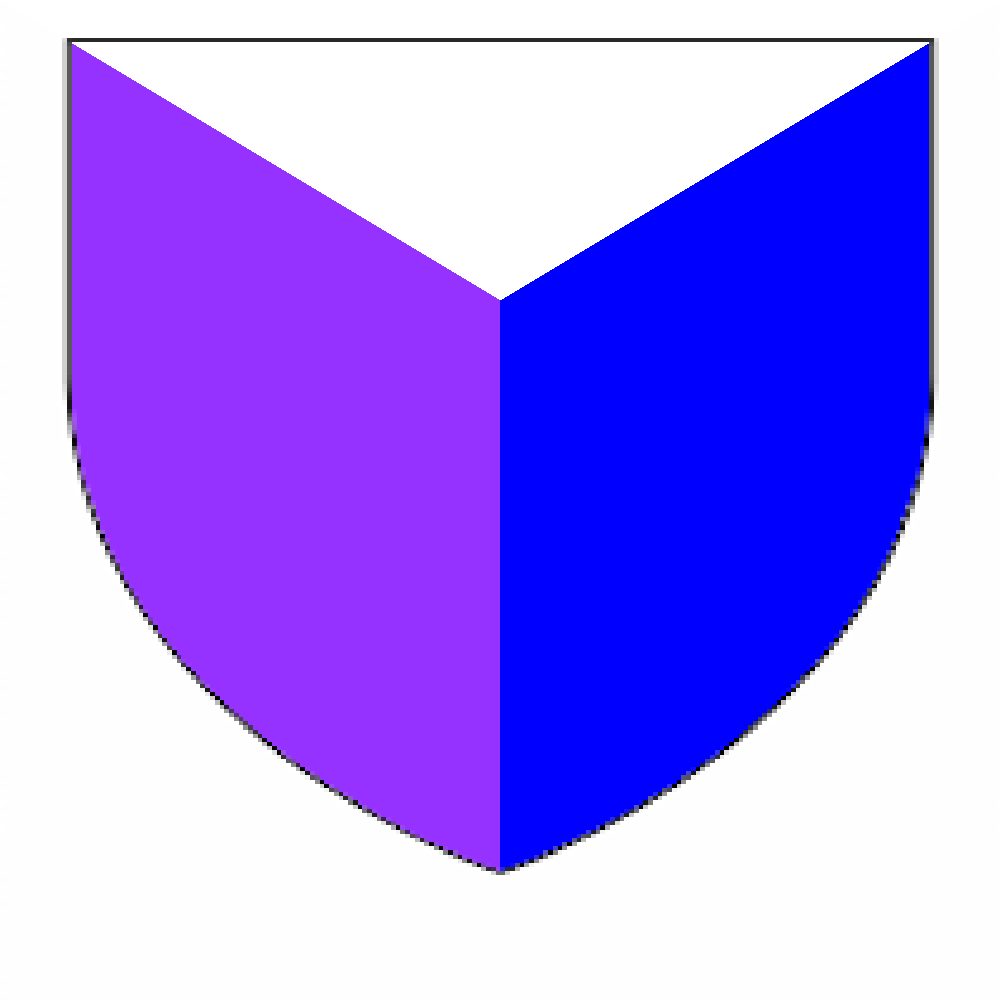
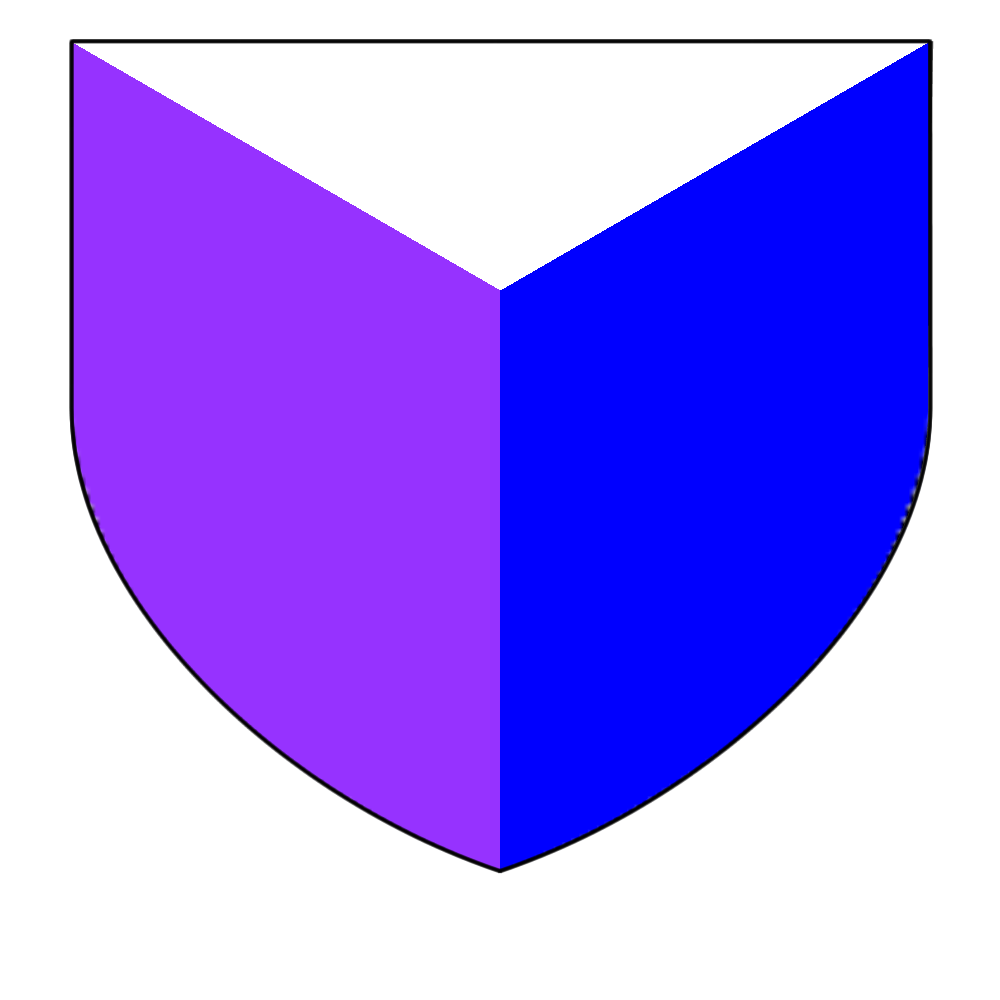
refactored per pall/per pall reversed

diff --git a/field_geometries.py b/field_geometries.py
@@ -417,42 +417,84 @@ def get_vetu_ploye_field(tinctures, location):
     # so outer_section needs to be on top.
     return Device("", [inner_section, outer_section])
 
-def get_per_pall_field(tinctures):
+def get_per_pall_field(tinctures, location):
     '''
     Returns a device with a per pall field.
     tinctures: a list of exactly 3 tinctures,
      which will be used in the order [chief, dexter, sinister].
+    location: a Rect representing the location on the screen of the per pall
+      portion of the field. For a vetu ploye field on the full shield, the Rect should be 
+      Rect(kXMargin, kYMargin, kScreenWidth-2*kXMargin, kShieldBottom-kYMargin).
     '''
     if len(tinctures) != 3:
         print("A per pall field must have exactly 3 tinctures.")
         return Device("")
-    center = [int(kScreenWidth/2), int(kScreenHeight*0.3)]
-    chief_boundary = [[0, 0], [kScreenWidth, 0], center]
-    dexter_boundary = [[0, 0], [0, kScreenHeight], [int(kScreenWidth/2), kScreenHeight], center]
-    sinister_boundary = [[kScreenWidth, 0], [kScreenWidth, kScreenHeight],
-                         [int(kScreenWidth/2), kScreenHeight], center]
-    chief_section = FieldSection(chief_boundary, tincture=tinctures[0])
-    dexter_section = FieldSection(dexter_boundary, tincture=tinctures[1])
-    sinister_section = FieldSection(sinister_boundary, tincture=tinctures[2])
+    center = [location.centerx, int(location.top+location.height*0.3)]
+    chief_boundary = [[location.left, location.top], [location.right, location.top], center]
+    dexter_boundary = [[location.left, location.top], [location.left, location.bottom],
+                       [location.centerx, location.bottom], center]
+    sinister_boundary = [[location.right, location.top], [location.right, location.bottom],
+                         [location.centerx, location.bottom], center]
+    size = (kScreenWidth, kScreenHeight)
+    
+    chief_surface = pygame.Surface(size, 0, 32)
+    chief_surface.fill(tinctures[0])
+    chief_mask = pygame.Surface(size, 0, 32)
+    pygame.draw.polygon(chief_mask, kGrey, chief_boundary)
+    
+    dexter_surface = pygame.Surface(size, 0, 32)
+    dexter_surface.fill(tinctures[1])
+    dexter_mask = pygame.Surface(size, 0, 32)
+    pygame.draw.polygon(dexter_mask, kGrey, dexter_boundary)
+    
+    sinister_surface = pygame.Surface(size, 0, 32)
+    sinister_surface.fill(tinctures[2])
+    sinister_mask = pygame.Surface(size, 0, 32)
+    pygame.draw.polygon(sinister_mask, kGrey, sinister_boundary)
+    
+    chief_section = FieldSection(chief_surface, chief_mask)
+    dexter_section = FieldSection(dexter_surface, dexter_mask)
+    sinister_section = FieldSection(sinister_surface, sinister_mask)
     return Device("", [chief_section, dexter_section, sinister_section])
 
-def get_per_pall_reversed_field(tinctures):
+def get_per_pall_reversed_field(tinctures, location):
     '''
     Returns a device with a per pall reversed field.
     tinctures: a list of exactly 3 tinctures,
      which will be used in the order [dexter, sinister, base].
+    location: a Rect representing the location on the screen of the per pall reversed
+      portion of the field. For a vetu ploye field on the full shield, the Rect should be 
+      Rect(kXMargin, kYMargin, kScreenWidth-2*kXMargin, kShieldBottom-kYMargin).
     '''
     if len(tinctures) != 3:
         print("A per pall reversed field must have exactly 3 tinctures.")
         return Device("")
-    center = [int(kScreenWidth/2), int(kScreenHeight*0.5)]
-    base_boundary = [[0, kScreenHeight], [kScreenWidth, kScreenHeight], center]
-    dexter_boundary = [[0, 0], [0, kScreenHeight], center, [int(kScreenWidth/2), 0]]
-    sinister_boundary = [[kScreenWidth, 0], [kScreenWidth, kScreenHeight],
-                         center, [int(kScreenWidth/2), 0]]
-    dexter_section = FieldSection(dexter_boundary, tincture=tinctures[0])
-    sinister_section = FieldSection(sinister_boundary, tincture=tinctures[1])
-    base_section = FieldSection(base_boundary, tincture=tinctures[2])
+    center = [location.centerx, int(location.top+location.height*0.5)]
+    base_boundary = [[location.left, location.bottom], [location.right, location.bottom], center]
+    dexter_boundary = [[location.left, location.bottom], [location.left, location.top],
+                       [location.centerx, location.top], center]
+    sinister_boundary = [[location.right, location.bottom], [location.right, location.top],
+                         [location.centerx, location.top], center]
+    size = (kScreenWidth, kScreenHeight)
+    
+    base_surface = pygame.Surface(size, 0, 32)
+    base_surface.fill(tinctures[0])
+    base_mask = pygame.Surface(size, 0, 32)
+    pygame.draw.polygon(base_mask, kGrey, base_boundary)
+    
+    dexter_surface = pygame.Surface(size, 0, 32)
+    dexter_surface.fill(tinctures[1])
+    dexter_mask = pygame.Surface(size, 0, 32)
+    pygame.draw.polygon(dexter_mask, kGrey, dexter_boundary)
+    
+    sinister_surface = pygame.Surface(size, 0, 32)
+    sinister_surface.fill(tinctures[2])
+    sinister_mask = pygame.Surface(size, 0, 32)
+    pygame.draw.polygon(sinister_mask, kGrey, sinister_boundary)
+    
+    base_section = FieldSection(base_surface, base_mask)
+    dexter_section = FieldSection(dexter_surface, dexter_mask)
+    sinister_section = FieldSection(sinister_surface, sinister_mask)
     return Device("", [dexter_section, sinister_section, base_section])
 
 def get_gyronny_field(num_sections, tinctures, horizontal=False):

diff --git a/unified_field_tests.py b/unified_field_tests.py
@@ -32,16 +32,15 @@ field_geometries.get_per_saltire_field([kArgent, kPurpure], full_shield).display
 # Per chevron throughout (and inverted)
 field_geometries.get_per_chevron_throughout_field([kPurpure, kArgent], full_shield).display_device()
 field_geometries.get_per_chevron_inverted_throughout_field([kPurpure, kArgent], full_shield).display_device()
-'''
 # Vetu
 field_geometries.get_vetu_field([kArgent, kPurpure], full_shield).display_device()
-#################### BEGIN BROKEN SECTION
-long_skinny = Rect(300, 300, 50, 200)
 field_geometries.get_vetu_ploye_field([kArgent, kPurpure], full_shield).display_device()
 '''
+#################### BEGIN BROKEN SECTION
 # Per pall (and inverted)
-field_geometries.get_per_pall_field([kArgent, kPurpure, kAzure]).display_device()
-field_geometries.get_per_pall_reversed_field([kPurpure, kAzure, kArgent]).display_device()
+field_geometries.get_per_pall_field([kArgent, kPurpure, kAzure], full_shield).display_device()
+field_geometries.get_per_pall_reversed_field([kPurpure, kAzure, kArgent], full_shield).display_device()
+'''
 # Gyronny
 field_geometries.get_gyronny_field(6, [kPurpure, kArgent]).display_device()
 field_geometries.get_gyronny_field(6, [kPurpure, kArgent], horizontal=True).display_device()
